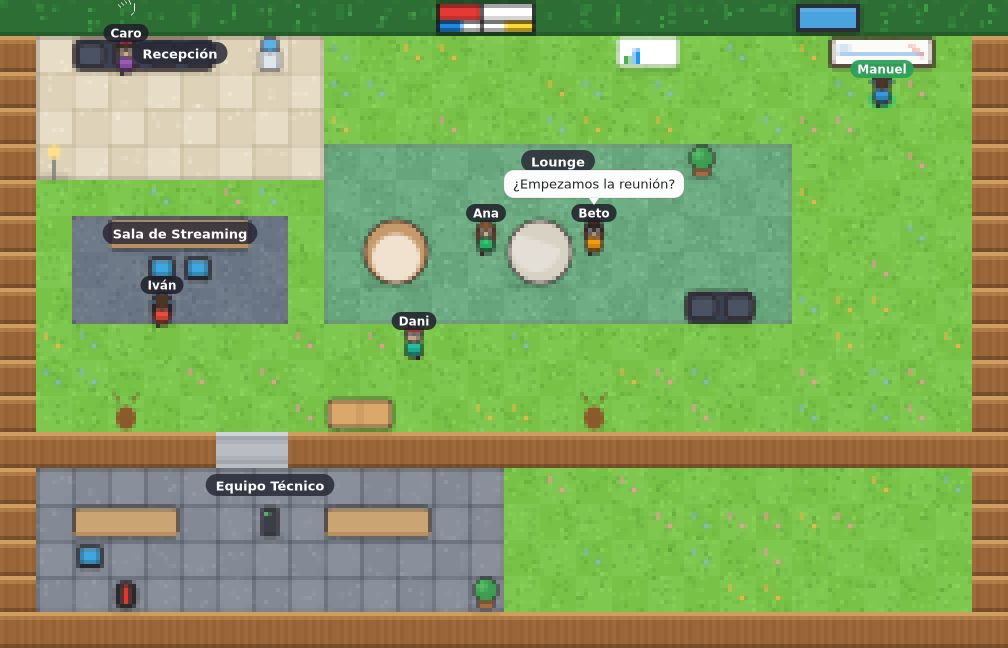
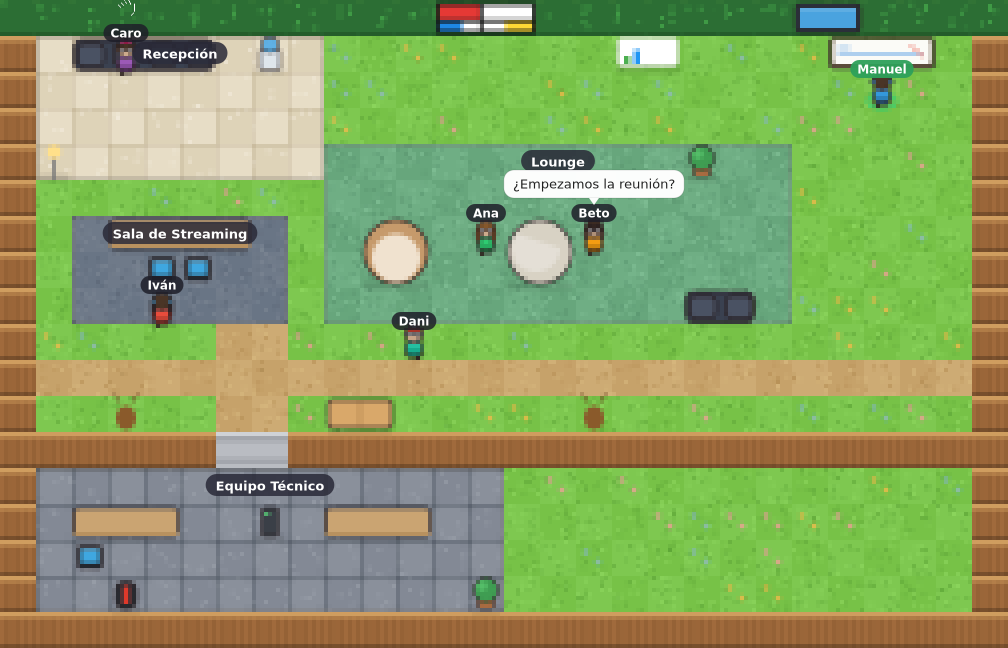
Añade sendero de tierra al estilo ruta GBA
- Camino de tierra (con guijarros) en el corredor central que conecta
  con la escalera del acantilado divisorio
- Captura actualizada

Changed region(s): [[0.0308, 0.4938, 0.9841, 0.679]]

diff --git a/client/src/game/render.js b/client/src/game/render.js
@@ -153,6 +153,26 @@ function treeTile(ctx, px, py, x, y) {
   ctx.fillRect(px - 2, py + TILE - 2, TILE + 4, 4);
 }
 
+// Sendero de tierra (conecta el corredor central con la escalera).
+function isPath(x, y) {
+  const onH = y === 10;
+  const onV = (x === DIVIDER.door || x === DIVIDER.door + 1) && y >= 9 && y <= 11;
+  return onH || onV;
+}
+function pathTile(ctx, px, py, x, y) {
+  const a = (x + y) % 2 === 0;
+  ctx.fillStyle = a ? "#cdab74" : "#c6a26a";
+  ctx.fillRect(px, py, TILE, TILE);
+  dither(ctx, px, py, x, y, "#d8b97f", 6);
+  dither(ctx, px, py, x + 4, y + 7, "#b58e54", 6);
+  // Guijarros ocasionales.
+  const h = hash(x * 3, y * 5);
+  if (h % 3 === 0) {
+    ctx.fillStyle = "#9c7a45";
+    ctx.fillRect(px + (h % (TILE - 6)) + 2, py + ((h >>> 8) % (TILE - 6)) + 2, 3, 2);
+  }
+}
+
 export function drawFloor(ctx, cam) {
   for (let y = 0; y < ROWS; y++) {
     for (let x = 0; x < COLS; x++) {
@@ -181,9 +201,13 @@ export function drawFloor(ctx, cam) {
           case 3: // Equipo Técnico → suelo técnico de paneles
             techFloor(ctx, px, py, x, y);
             break;
-          default: // Pasillos/exterior → césped con flores
-            grassTile(ctx, px, py, x, y);
-            flowersOnGrass(ctx, px, py, x, y);
+          default: // Pasillos/exterior → césped con flores (o sendero)
+            if (isPath(x, y)) {
+              pathTile(ctx, px, py, x, y);
+            } else {
+              grassTile(ctx, px, py, x, y);
+              flowersOnGrass(ctx, px, py, x, y);
+            }
         }
       }
     }
